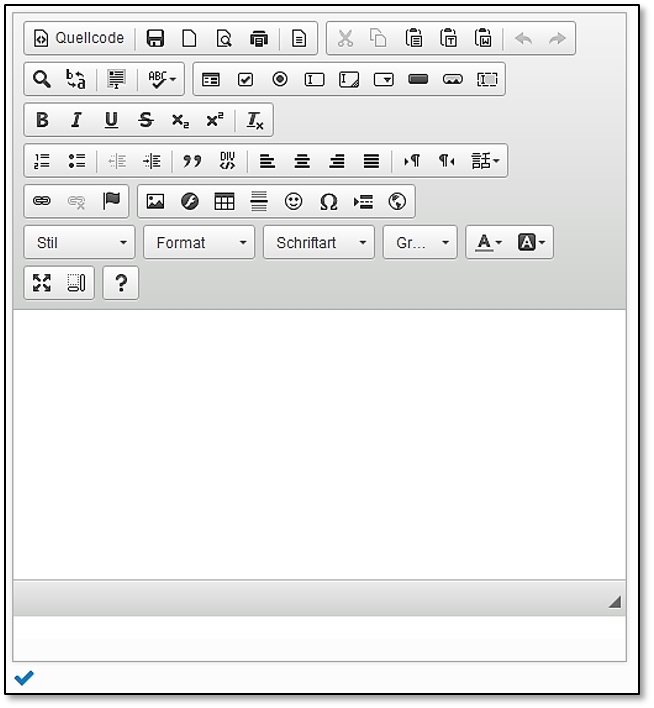
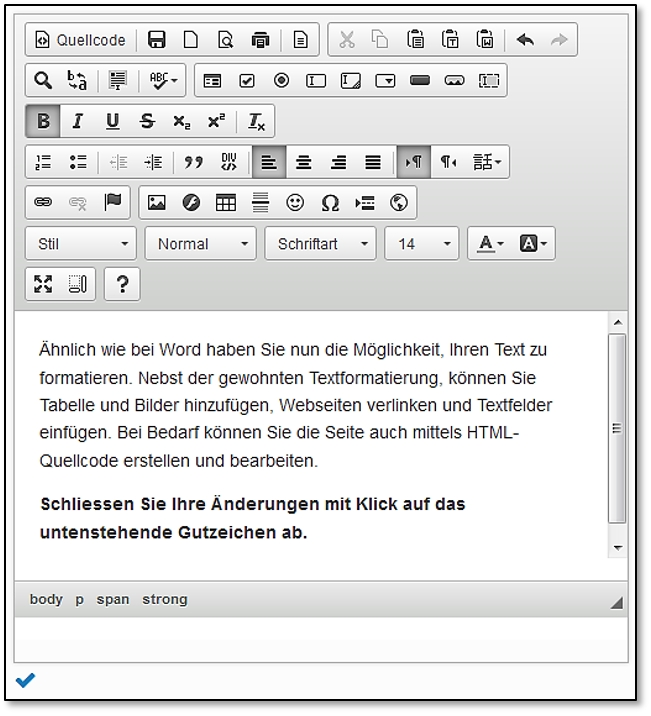
[german] CRM
CRM Beschreibung erstellen, Printscreens einfügen

diff --git a/german/chapters/10_CRM/10_CRM.tex b/german/chapters/10_CRM/10_CRM.tex
@@ -128,7 +128,7 @@ Nun haben Sie auch die Möglichkeit die Einladungsseite (Online-Flyer) zu erstel
 \vspace{\baselineskip}
 
 Mit Klick auf 'alle' \col{(2)} werden sämtliche Personen in der Adressliste einer Einladung hinzugefügt. Beachten Sie obigen Hinweis zum Speichern. Sie können die Personen mit Vor- oder Nachnamen direkt in das Suchfeld \col{(3)} eintragen und aus des gefunden Einträgen mit Mausklick auswählen. Die Suche funktioniert auch mit Eingabe von Firmennamen; sämtliche Personen einer gesuchten Firma werden angezeigt. \\
-Wurden Teilnehmer ausgewählt, wird der Status automatisch auf 'neu' gesetzt. Dieser lässt sich mit dem Stiftsymbol \includegraphics[height=12pt]{/Icons/Stift.jpg} \col{(4)} ändern. Mit Klick auf das Kreuzsymbol \includegraphics[height=12pt]{/Icons/Kreuzchen.jpg} \col{(5)} können Teilnehmer wieder gelöscht werden. Da sämtliche Mutationen gerade gespeichert werden, müssen Sie nicht auf 'Übernehmen' klicken.
+Wurden Teilnehmer ausgewählt, wird der Status automatisch auf 'neu' gesetzt. Dieser lässt sich mit dem Stiftsymbol \includegraphics[height=12pt]{/Icons/Stift.jpg} \col{(4)} ändern. Mit Klick auf das Kreuzsymbol \includegraphics[height=12pt]{/Icons/Kreuzchen_b.jpg} \col{(5)} können Teilnehmer wieder gelöscht werden. Da sämtliche Mutationen gerade gespeichert werden, müssen Sie nicht auf 'Übernehmen' klicken.
 
 \begin{figure}[H]
 \center{\includegraphics[width=1\linewidth]{../chapters/10_CRM/pictures/10-2-2_Teilnehmerliste.jpg}}
@@ -141,7 +141,7 @@ Wurden Teilnehmer ausgewählt, wird der Status automatisch auf 'neu' gesetzt. Di
 Im Betrachtungsmodus \includegraphics[height=12pt]{/Icons/Lupe.jpg} haben Sie die Möglichkeit mit Klick auf das Downloadsymbol \includegraphics[height=12pt]{/Icons/Download.jpg} \col{(1)} eine Teilnehmerlsite im Excel (.xlsx) zu exportieren.
 
 \begin{figure}[H]
-\center{\includegraphics[width=.7\linewidth]{../chapters/10_CRM/pictures/10-2-2_Teilnehmerliste_exportieren.jpg}}
+\center{\includegraphics[width=.65\linewidth]{../chapters/10_CRM/pictures/10-2-2_Teilnehmerliste_exportieren.jpg}}
 \caption{Teilnehmerliste exportieren}
 % \label{fig:speciation}
 \end{figure}
@@ -167,7 +167,7 @@ Nun wird eine leere Editierseite der Onlineeinladung geöffnet:
 % \label{fig:speciation}
 \end{figure}
 
-Mit dem Stiftsymbol \includegraphics[height=12pt]{/Icons/Stift.jpg} können Sie nun die verschiedenen Bereiche gestalten. Mit dem Kreuzsymbol \includegraphics[height=12pt]{/Icons/Kreuzchen.jpg} können Sie Bereiche löschen.
+Mit dem Stiftsymbol \includegraphics[height=12pt]{/Icons/Stift.jpg} können Sie nun die verschiedenen Bereiche gestalten. Mit dem Kreuzsymbol \includegraphics[height=12pt]{/Icons/Kreuzchen_b.jpg} können Sie Bereiche löschen.
 Die grossen Icons stehen für einen Titel \col{(1)}. Mit Klick auf den Stift \includegraphics[height=12pt]{/Icons/Stift.jpg} öffnet sich ein reines Textfeld, in welchem Sie den Titel des Bereiches eingeben und mit dem Gutzeichen \includegraphics[height=12pt]{/Icons/Gutzeichen.jpg} speichern können.
 Mit Klick auf den Stift \includegraphics[height=12pt]{/Icons/Stift.jpg} für die Beschreibung \col{(2)} öffnet sich ein ausführliches Editierfenster, in welchem Sie den Text nach Belieben formatieren können (siehe unten). Unterhalb des Textes 'Platzhalter für Bild, editieren mit Bleistift unter diesem Satz' können Sie mit Klick auf den Stift \includegraphics[height=12pt]{/Icons/Stift.jpg} ein Bild hochladen, indem Sie auf 'Durchsuchen' klicken und das gewünschte Bild auswählen und mit dem Gutzeichen \includegraphics[height=12pt]{/Icons/Gutzeichen.jpg} bestätigen. 
 
@@ -177,10 +177,70 @@ Mit Klick auf den Stift \includegraphics[height=12pt]{/Icons/Stift.jpg} für die
 % \label{fig:speciation}
 \end{figure}
 
+\subsubsection{Einladungen versenden}
 
-% \subsubsection{Einladungen versenden}
+Im Betrachtungs- oder Bearbeitungsmodus der Veranstaltungen gelangen Sie mit Klick auf das Briefsymbol \includegraphics[height=12pt]{/Icons/Briefsymbol.jpg} auf die Bearbeitungsseite der Einladungsvorlage. Auf dieser Seite sehen Sie nochmals die terminlichen Eckdaten im Überblick. Zudem gelangen Sie mit dem roten Bearbeitungs- und Lupensymbol auch von hier zur Bearbeitungsseite der Onlineeinladung, respektive der Betrachtungsseite der Onlineeinladung. \\
 
-% inkl. Emailvorlage bearbeiten
+\begin{figure}[H]
+\center{\includegraphics[width=.8\linewidth]{../chapters/10_CRM/pictures/10-2-4_Einladungsvorlage.jpg}}
+\caption{Emailvorlage}
+% \label{fig:speciation}
+\end{figure}
+
+Ihnen wird ein Einladungstext vorgeschlagen, welcher Sie aber nach Belieben auch anpassen können. Dazu klicken Sie auf das Bearbeitungssysmbol \includegraphics[height=12pt]{/Icons/Bearbeiten.jpg} \col{(2)}. Im Folgenden können Sie den vorgeschlagenen Text der Einladung anpassen (siehe unten). Entspricht der Einladungstext Ihren Wünschen, können Sie die Einladung mit Klick auf den Button 'Einladung versenden' \col{(3)} versenden. Die Einladung wird nur an Personen verschickt, welche den Status 'neu' haben.
+
+\begin{figure}[H]
+\center{\includegraphics[width=1\linewidth]{../chapters/10_CRM/pictures/10-2-4_Einladungsvorlage_bearbeiten.jpg}}
+\caption{Emailvorlage bearbeiten}
+% \label{fig:speciation}
+\end{figure}
+
+Nun können Sie den Einladungstext \col{(3)} ändern. Mit Klick auf das Diskettensymbol \includegraphics[height=12pt]{/Icons/Diskette.jpg} \col{(1)} werden die Einstellungen gespeichert; mit Klick auf das blaue Kreuzchen \includegraphics[height=12pt]{/Icons/Kreuzchen_b.jpg} \col{(2)} werden die Änderungen verworfen.\\
+Zur Hilfestellung sehen Sie rechts die Übersicht der Platzhalter für die Einladung \col{(4)}. Bevor Sie die Einladung versenden \col{(5)}, speichern \col{(1)} oder verwerfen \col{(2)} Sie die Änderungen.
+
+\subsubsection{Status der Einladungen}
+
+Mit jedem Schritt der Einladung verändert sich der Status der Teilnehmer.
+
+Folgende Statis werden verwendet:
+
+\begin{wrapfigure}[9]{l}{6.5cm}   % [x] Wie manche Zeile soll sich um die Grafik "brechen"
+  \vspace{-10pt}      % Grundwert war 20; mit 30 schön oben beim Text ausgerichtet
+  \begin{center}
+    \includegraphics[width=.8\linewidth]{../chapters/10_CRM/pictures/10-2-5_Status.jpg}
+  \end{center}
+  \vspace{-20pt}
+  % \caption{Neue Veranstaltung anlegen}
+  \vspace{-10pt}
+\end{wrapfigure}
+
+
+\textbf{Überblick Statussystem:}
+
+\textbf{neu:} Wird eine neue Veranstaltung erstellt und Teilnehmer hinzugefügt, erhalten diese den Status 'neu'. Eine Einladung wird nur an Teilnehmer mit Status 'neu' versendet.\\
+\textbf{eingeladen:} Wurde die Einladung versendet, erhalten die Teilnehmer den Status 'eingeladen'.\\
+\textbf{erinnert:} Teilnehmer, welche nicht reagiert haben können erinnert werden.\\
+\textbf{angemeldet:} Teilnehmer, welche sich über die Einladungswebseite angemeldet haben erhalten den Status 'angemeldet'.\\
+\textbf{teilgenommen:} Der Anlass hat stattgefunden und die teilgenommenen Teilnehmer erhalten den Status 'teilgenommen'.\\
+\textbf{nachher kontaktiert:} Aus Begegnungen oder zur Feedbackeinholung werden Teilnehmer nach dem Anlass kontaktiert. Um eine Übersicht über die Teilnehmer zu erhalten, welche bereits kontaktiert wurden, wird dieser Status gesetzt.\\
+\textbf{abgemeldet:} Ebenfalls über die Webseite oder auf anderem Weg abgemeldete Teilnehmer erhalten den Status 'abgemeldet'.\\
+
+\vspace{\baselineskip}
+
+\textit{Status manuell bearbeiten:} Es ist möglich ein Status eines Teilnehmers auch manuell zu ändern. Hat sich ein Teilnehmer beispielsweise nicht über die Einladungswebseite, sondern per Telefon angemeldet, kann die Administration mit Klick auf das Stiftsymbol \includegraphics[height=12pt]{/Icons/Stift.jpg} ein Status manuell anpassen. Diese Mutation funktioniert im Bearbeitungs- oder Übersichtsmodus der Veranstaltung.
+
+\subsubsection{Anmeldung und Abmeldung durch die Teilnehmer}
+
+Die Teilnehmer erhalten die Einladung per Mail. In der Einladungsemail befindet sich ein Link auf die zuvor erstellte Einladungsseite. Diese Seite entspricht einem Flyer mit allen nötigen Angaben. Über diese Einladungsseite können die Teilnehmer mit einem Klick ihre Anmeldung bestätigen oder sich allenfalls auch abmelden. Nach dem entsprechenden Klick durch den Teilnehmer wird der Status des jeweiligen Teilnehmers im CUBE PA CRM automatisch aktualisiert. 
+
+\begin{figure}[H]
+\center{\includegraphics[width=1\linewidth]{../chapters/10_CRM/pictures/10-2-6_AnAbmeldungUebersicht.jpg}}
+\caption{Übersicht An- und Abmeldungen}
+% \label{fig:speciation}
+\end{figure}
+
+In der Veranstaltungsübersicht \includegraphics[height=12pt]{/Icons/Lupe.jpg} sehen sie komplette Teilnehmerliste.
+
 
 % \subsubsection{Bestehende Veranstaltungen betrachten und bearbeiten}
 

diff --git a/german/CUBEPA_Handbuch.tex b/german/CUBEPA_Handbuch.tex
@@ -83,7 +83,7 @@
 \HRule \\[1.5cm]
 
 \textsf{\Large Benutzerhandbuch}\\[0.5cm] % Major heading such as course name
-\textsf{\large Version 2.7 / 29.09.2017}\\[0.5cm] % Minor heading such as course title
+\textsf{\large Version 2.7 / 03.11.2017}\\[0.5cm] % Minor heading such as course title
 
 
 \pagebreak
@@ -95,13 +95,13 @@
 \begin{tabular}{lp{12cm}}
 Auftragsnummer & BE.N.\\
 Auftraggeber & .\\
-Datum & 27.09.2017\\
+Datum & 03.11.2017\\
 Version & 2.7\\
 Autoren & Dieter Schopfer, Benjamin Nyffenegger, Adrian Johner, Markus Schafroth, Simon Heimberg\\
 Freigabe & Markus Schafroth\\
 Verteilen & .\\
 Datei & .\\
-Seitenzahl & 165\\
+Seitenzahl & 176\\
 Copyright & \copyright{ Emch+Berger AG Bern}\\
 \end{tabular}
 
